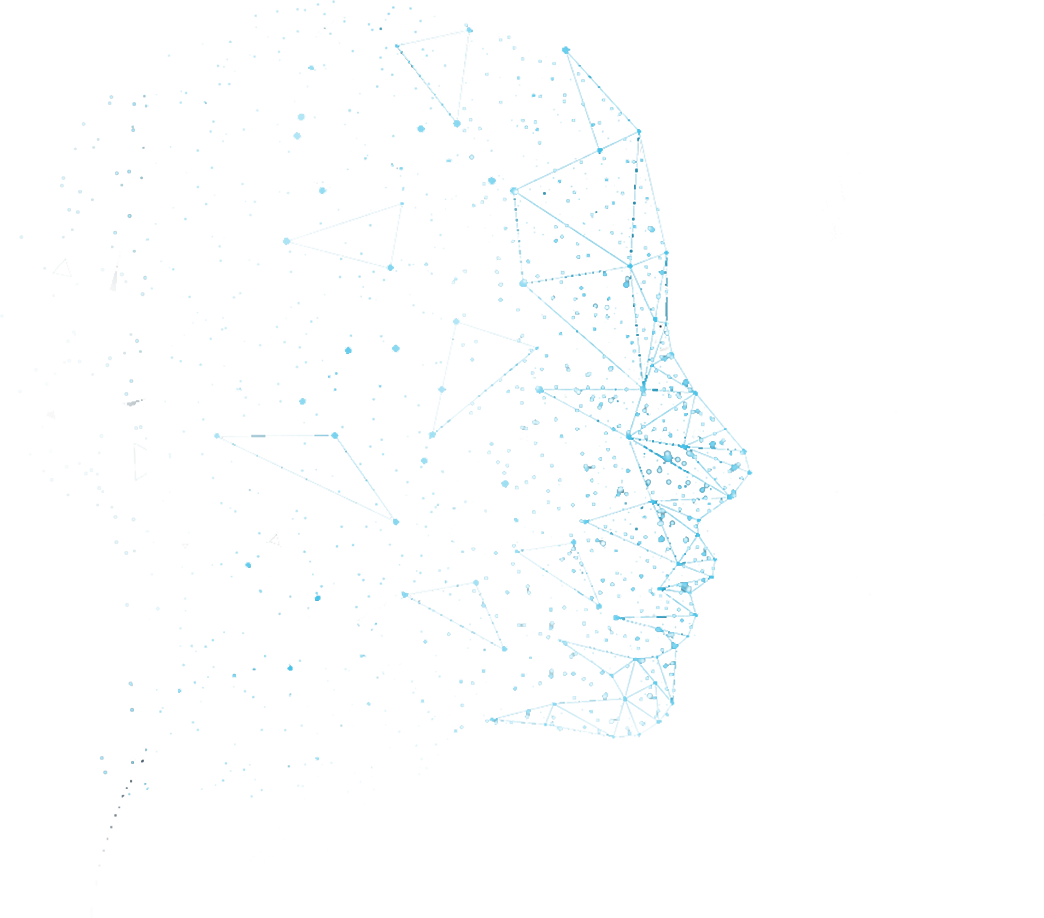
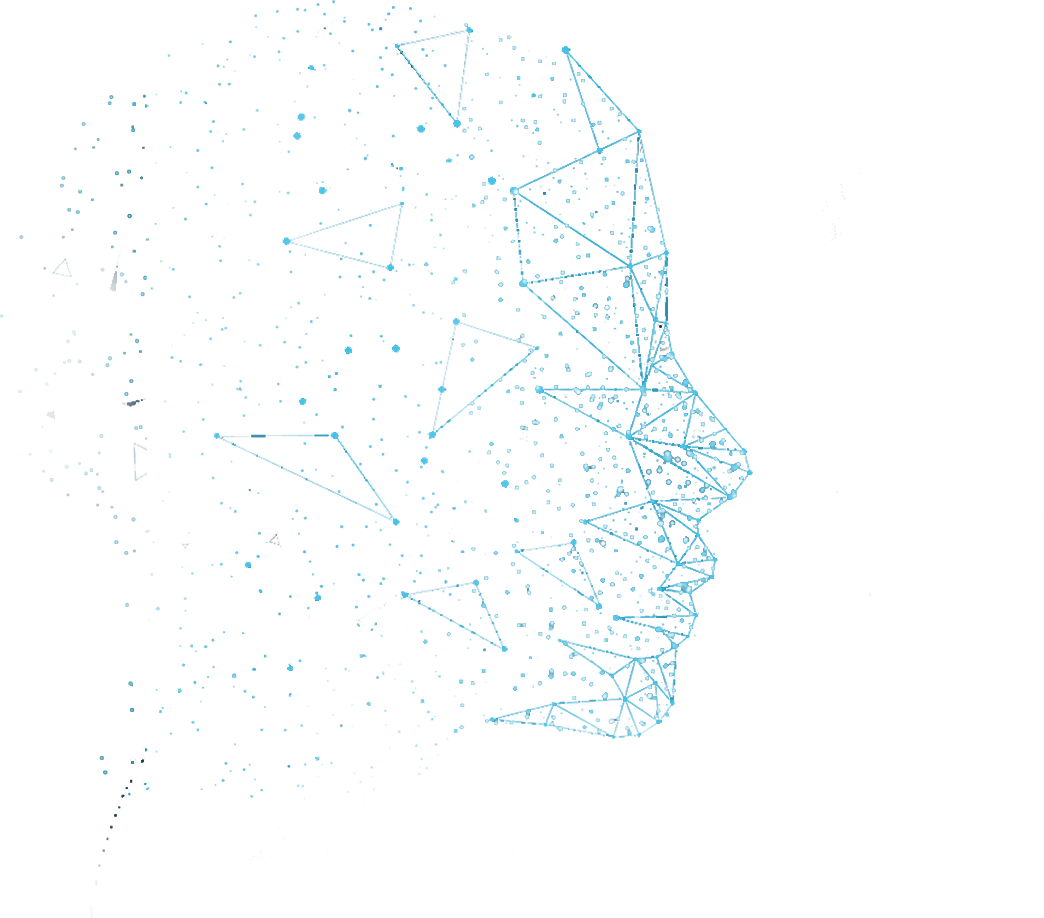
mockup revision

diff --git a/src/pages/index.js b/src/pages/index.js
@@ -11,11 +11,6 @@ import 'animate.css/animate.min.css'
 
 import HeroParticles from '../components/particles'
 import Overview from '../components/overview'
-import Hero from '../images/hero.png'
-import LogoImg from '../images/logo-img.png'
-import ThreatSimulation from '../images/threat-simulation.png'
-import Consulting from '../images/consulting.png'
-import SoftwareRD from '../images/software-r-d.png'
 
 import ATFimg from '../images/atf-img.png'
 import DownArrow from '../images/down-arrow.svg'
@@ -268,6 +263,7 @@ class IndexPage extends React.Component {
 
           <div className="above-the-fold">
             <img className="atf-img" src={ATFimg} alt="" />
+            <HeroParticles />
             <div className="container">
               <ScrollAnimation animateIn="fadeInDown" duration="2">
                 <h2 className="text-blue">Nosce Te Ipsum</h2>
@@ -656,7 +652,7 @@ class IndexPage extends React.Component {
               <div className="container-fluid">
                 <div className="row justify-content-center">
                   <div className="col-10">
-                    <h2 className="font-weight-bold text-blue">Our Partners</h2>
+                    <h2 className="font-weight-bold">Our Partners</h2>
                     <LazyLoadComponent>
                       <Swiper {...logos} className>
                         <div>

diff --git a/src/components/styles.css b/src/components/styles.css
@@ -20,8 +20,7 @@ p:last-child {
 
 .above-the-fold {
   text-align: center;
-  background: url('../images/atf-lines.png') fixed no-repeat,
-    url('../images/diamonds-bg.svg') fixed no-repeat,
+  background: url('../images/diamonds-bg.svg') fixed no-repeat,
     linear-gradient(
       -38deg,
       rgb(32, 64, 123) 0%,
